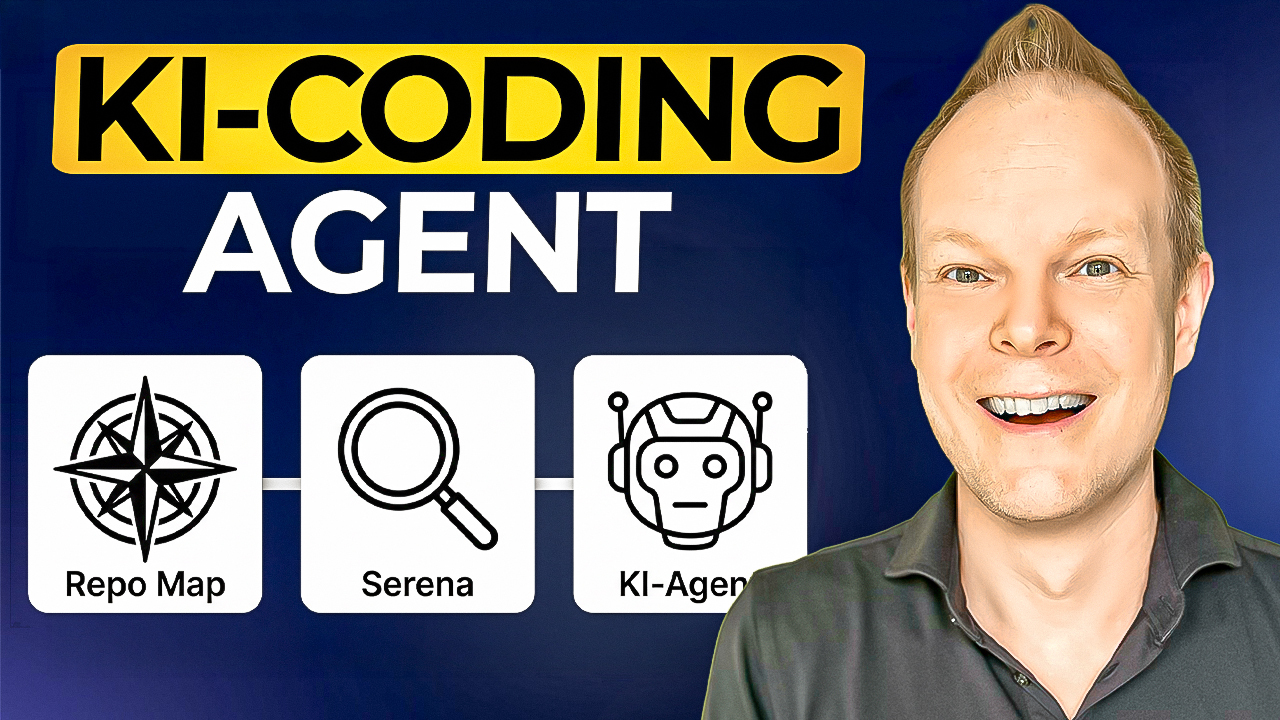
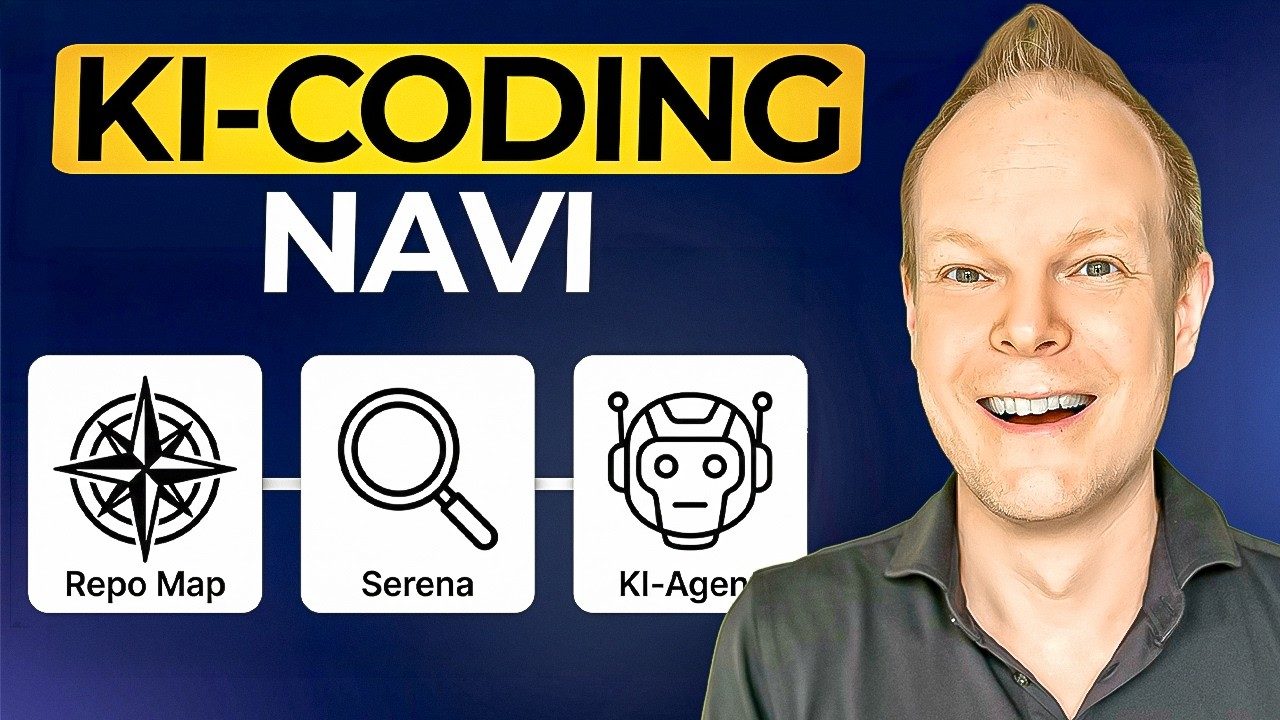
feat: publish lernsession grosse-codebasen-fuer-ki-agenten-erschliessen

diff --git a/lessons/grosse-codebasen-fuer-ki-agenten-erschliessen/index.html b/lessons/grosse-codebasen-fuer-ki-agenten-erschliessen/index.html
@@ -37,12 +37,14 @@
     </div>
   </section>
 
-  <div class="video-card coming-soon" role="group" aria-disabled="true" aria-labelledby="video-status">
-    <img src="assets/ki-agenten-grosse-codebasen-thumbnail.jpg" alt="KI-Coding Agent mit Repo Map und Serena in großen Codebasen" width="1280" height="720">
+  <div class="video-card is-live" role="group" aria-labelledby="video-status">
+    <a href="https://youtu.be/gW8toHCcN_A" target="_blank" rel="noopener">
+      <img src="assets/ki-agenten-grosse-codebasen-thumbnail.jpg" alt="Video-Vorschau: KI-Agenten in großen Codebasen – Repo Map und Serena in Pi" width="1280" height="720">
+    </a>
     <div>
-      <h2 id="video-status">Begleitvideo erscheint in Kürze</h2>
-      <p>Die schriftliche Strecke ist vollständig eigenständig. Sobald das Video veröffentlicht ist, wird es hier ergänzt.</p>
-      <span class="status-label">Noch nicht verfügbar</span>
+      <h2 id="video-status">Begleitvideo: KI-Agenten in großen Codebasen</h2>
+      <p>Das Video zeigt den Workflow live an Spring PetClinic – Repo Map, Serena und gezielte Symbolfragen in rund 17 Minuten.</p>
+      <a class="path-action" href="https://youtu.be/gW8toHCcN_A" target="_blank" rel="noopener">Auf YouTube ansehen →</a>
     </div>
   </div>
 

diff --git a/lessons/grosse-codebasen-fuer-ki-agenten-erschliessen/assets/course.css b/lessons/grosse-codebasen-fuer-ki-agenten-erschliessen/assets/course.css
@@ -154,6 +154,9 @@
   border-radius: 4px;
   filter: saturate(.7);
 }
+.video-card.is-live img { filter: none; }
+.video-card.is-live a > img { transition: filter .15s ease; }
+.video-card.is-live a:hover > img { filter: saturate(1.1); }
 .video-card h2 { margin-top: 0; color: var(--ink); }
 .status-label {
   display: inline-block;
